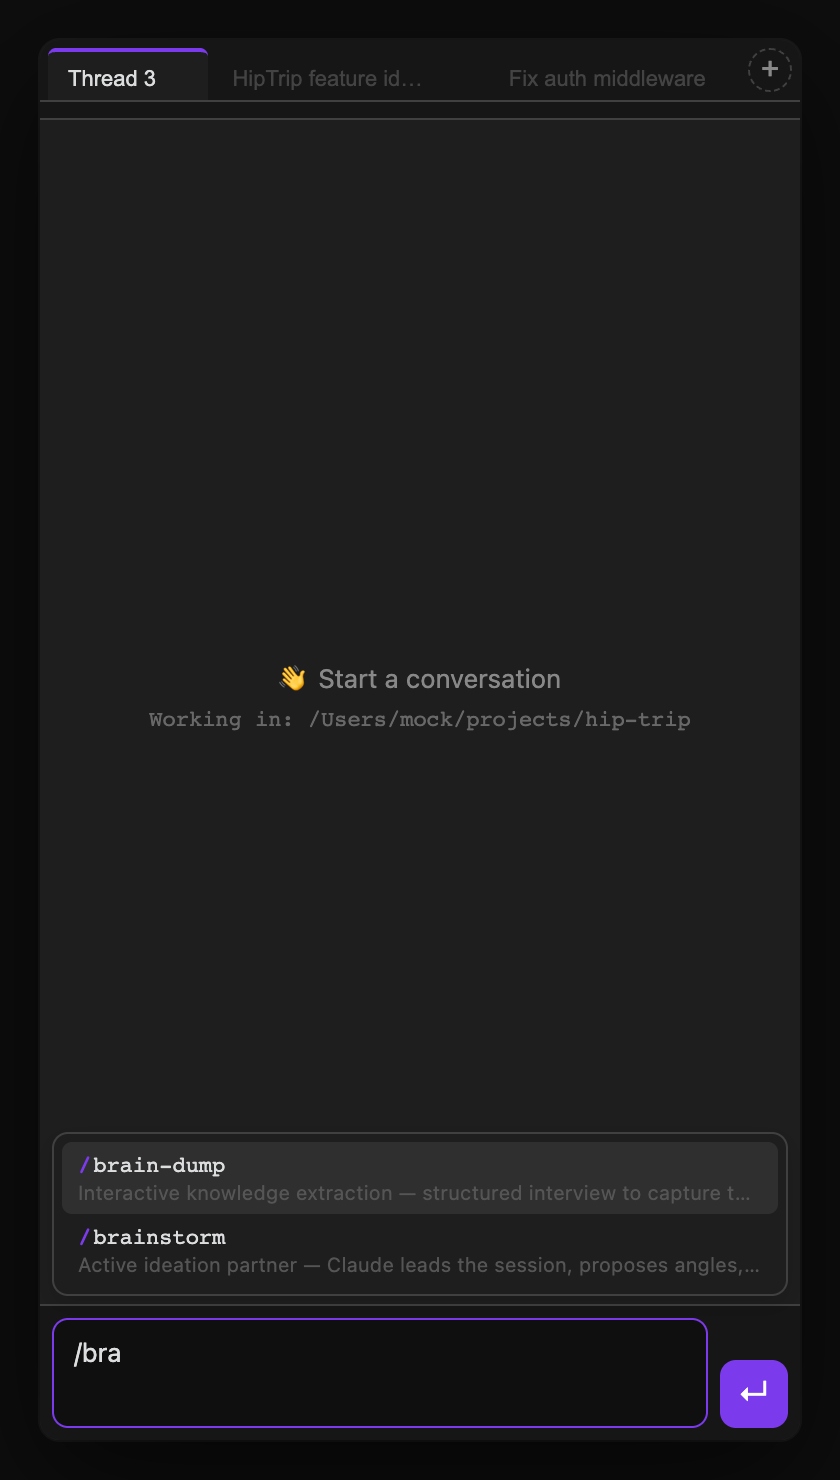
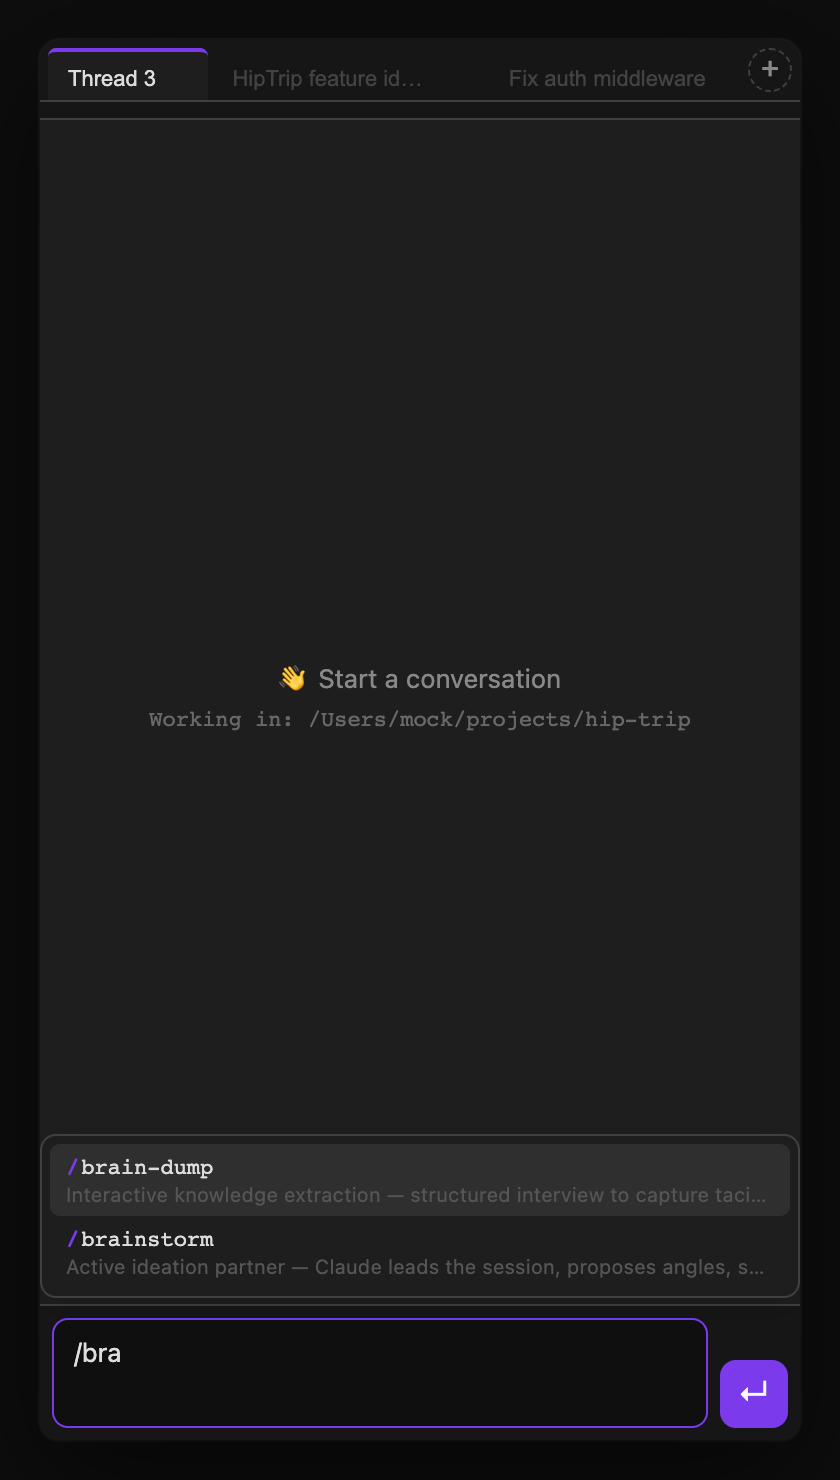
fix: sort dashboard groups by recency (#9)
* fix: sort dashboard groups by recency (most recently updated first)

Threads within each section (Working, Completed, Failed, Ready) were
rendered in insertion order, making it hard to spot which agents
finished most recently. Add a byRecency comparator and sort all four
groups by `updatedAt` descending before rendering.

* test: add unit tests for AgentDashboard recency sort

Cover the byRecency comparator: most-recent-first ordering across
Completed, Failed, and edge cases (equal timestamps, single item,
empty array). 6 tests, all passing.

* test: update slash-command autocomplete screenshot baseline

Skill descriptions changed since the snapshot was last captured, causing
a ~1% pixel diff in the autocomplete dropdown text. Regenerated with
--update-snapshots; all 3 screenshot tests now pass.

---------

Changed region(s): [[0.0619, 0.777, 0.3405, 0.8703], [0.3714, 0.8392, 0.8976, 0.8703], [0.9286, 0.8081, 0.9595, 0.8703]]

diff --git a/test/unit/agent-dashboard-sort.test.ts b/test/unit/agent-dashboard-sort.test.ts
@@ -1,0 +1,67 @@
+import { describe, it, expect } from 'vitest';
+import type { Thread } from '../../src/types';
+
+/**
+ * Mirrors the byRecency comparator in AgentDashboard.render().
+ * Kept here explicitly so a future refactor that changes the sort order
+ * is forced to update both the implementation and this test.
+ */
+const byRecency = (a: Thread, b: Thread) => b.updatedAt - a.updatedAt;
+
+function makeThread(id: string, updatedAt: number, hasMessages = false, hasError = false): Thread {
+  return {
+    id,
+    title: id,
+    cwd: '/tmp',
+    messages: hasMessages ? [{ id: 'msg1', role: 'assistant', content: 'hi', timestamp: updatedAt }] : [],
+    createdAt: updatedAt,
+    updatedAt,
+    lastError: hasError ? 'oops' : undefined,
+  } as Thread;
+}
+
+describe('AgentDashboard — sort groups by recency', () => {
+  it('sorts most-recently-updated thread to the top', () => {
+    const old   = makeThread('old',   1_000);
+    const mid   = makeThread('mid',   2_000);
+    const fresh = makeThread('fresh', 3_000);
+
+    const sorted = [old, fresh, mid].sort(byRecency);
+    expect(sorted.map(t => t.id)).toEqual(['fresh', 'mid', 'old']);
+  });
+
+  it('is stable when updatedAt values are equal', () => {
+    const a = makeThread('a', 5_000);
+    const b = makeThread('b', 5_000);
+    const result = [a, b].sort(byRecency);
+    // Equal timestamps → original order preserved (stable sort, V8 ≥ Node 11)
+    expect(result.map(t => t.id)).toEqual(['a', 'b']);
+  });
+
+  it('Completed bucket: most recently finished thread appears first', () => {
+    const finished1 = makeThread('finished-early', 1_000, true);
+    const finished2 = makeThread('finished-late',  9_000, true);
+    const finished3 = makeThread('finished-mid',   5_000, true);
+
+    const idle = [finished1, finished2, finished3].sort(byRecency);
+    expect(idle[0].id).toBe('finished-late');
+    expect(idle[idle.length - 1].id).toBe('finished-early');
+  });
+
+  it('Failed bucket: most recently failed thread appears first', () => {
+    const err1 = makeThread('err-old',   2_000, false, true);
+    const err2 = makeThread('err-fresh', 8_000, false, true);
+
+    const errors = [err1, err2].sort(byRecency);
+    expect(errors[0].id).toBe('err-fresh');
+  });
+
+  it('handles a single thread without throwing', () => {
+    const solo = makeThread('solo', 1_234);
+    expect([solo].sort(byRecency)).toEqual([solo]);
+  });
+
+  it('handles an empty array without throwing', () => {
+    expect(([] as Thread[]).sort(byRecency)).toEqual([]);
+  });
+});

diff --git a/src/AgentDashboard.ts b/src/AgentDashboard.ts
@@ -143,6 +143,13 @@ export class AgentDashboard extends ItemView {
       else empty.push(t);
     }
 
+    // Sort each group by most recently updated first
+    const byRecency = (a: Thread, b: Thread) => b.updatedAt - a.updatedAt;
+    running.sort(byRecency);
+    idle.sort(byRecency);
+    errors.sort(byRecency);
+    empty.sort(byRecency);
+
     if (threads.length === 0) {
       const emptyEl = this.listEl.createDiv('ct-agents-empty');
       emptyEl.createDiv({ text: 'No threads yet.' });